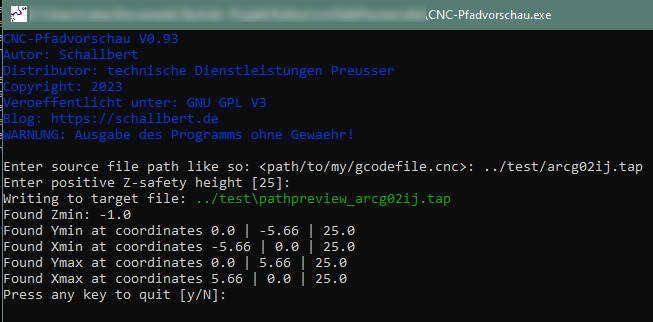
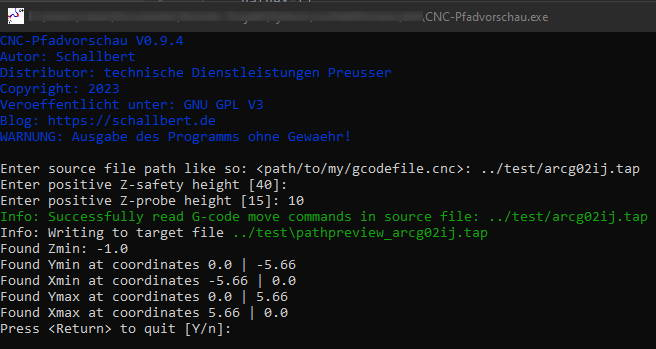
update console text color update readme for new version update example images for readme

diff --git a/cncpathpreview.py b/cncpathpreview.py
@@ -273,7 +273,7 @@ def generate_output_file(target_filename, data, zinfo):
     @:param zinfo: a list containing zsafety and zprobe height on which the extreme coordinate values are approached"""
     try:
         with open(target_filename, 'w') as f:
-            click.echo('Writing to target file: ' + click.style(target_filename, fg="green"), err=False)
+            click.echo('Info: Writing to target file ' + click.style(target_filename, fg="green"), err=False)
             f.write(get_file_header(target_filename))
             f.write(get_extreme_value('Zmin', data))  # Print Zmin
             f.write(get_zxyzmove(['0', '0'], zinfo))  # Go to X0Y0
@@ -282,11 +282,11 @@ def generate_output_file(target_filename, data, zinfo):
             extremes = get_extremes_text(targets, data)
             for i in range(0, len(targets)):
                 f.write(get_command_strings(targets[i], extremes[i], zinfo))
-
+            f.write(get_command_strings('X0 Y0 Z' + zinfo[0], ['0', '0'], [zinfo[0], zinfo[0]]))  # back to X0Y0
             f.write('M30')
             f.close()
     except FileExistsError:
-        click.echo('Error: Could not create file.', err=True)
+        click.secho('Error: Could not create file.', err=True, fg="red")
 
 def get_extremes_text(targets, data):
     """Extracts a list of extreme values from data using targets string for filtering.
@@ -351,7 +351,7 @@ def get_command_strings(axis, coordinate, zinfo):
     @:return a String object"""
     return ('MSG "PathPreview: Hit START to go to ' + axis + ': ' + str(coordinate) + '"\n'
             + 'M00\n'
-            + get_zxyzmove(coordinate, zinfo) + '\n')
+            + get_zxyzmove(coordinate, zinfo))
 
 def get_zxyzmove(coordinate, zinfo):
     """Simple helper to build a rapid move command
@@ -359,18 +359,18 @@ def get_zxyzmove(coordinate, zinfo):
     @:return a String object"""
     return ('G00 Z' + zinfo[0] + '\n' +
             'G00 X' + coordinate[0] + ' Y' + coordinate[1] + '\n'
-            'G01 Z' + zinfo[1] + ' F1200' +'\n')
+            'G01 Z' + zinfo[1] + ' F1200' +'\n\n')
 
 def convert_int_unsigned(value):
     """Helper method that evaluates a user input and provides a default value on error
     @:param value: An integer value
     @:return the validated number as positive integer"""
     if value <= 0:
-        click.echo('Error: ' + str(value) + ' might lead to machine crash. Defaulting to Z=25.', err=True)
+        click.secho('Warning: ' + str(value) + ' might lead to machine crash. Defaulting to Z=40.', err=True, fg="yellow")
         value = 40
     return str(value)
 
-@click.command("Test")
+@click.command()
 @click.option("-f", "--file", prompt="Enter source file path like so: <path/to/my/gcodefile.cnc>",
               help="The file to analyze for CNC job area edge detection",
               default=None, show_default=True, type=click.File(mode="r"), required=True )
@@ -389,13 +389,13 @@ def path_preview(file, zsafety, zprobe):
 
     data = create_dataset_from_input(file)
     if not data:
-        click.echo('Error: Could not find G-code move commands in source file.', err=True)
+        click.secho('Error: Could not find G-code move commands in source file.', err=True, fg="red")
     else:
-        click.secho('Found G-code move commands in source file: ' + file.name, err=True, fg="green")
+        click.secho('Info: Successfully read G-code move commands in source file: ' + file.name, fg="green")
         generate_output_file(path.join(target_path, target_filename), data,
                              [convert_int_unsigned(zsafety), convert_int_unsigned(zprobe)])
 
-    click.confirm("Press <Return> to quit")
+    click.confirm("Press <Return> to quit", default=True)
 
 # add pyinstaller hook for deployment
 if getattr(sys, 'frozen', False):

diff --git a/readme.md b/readme.md
@@ -22,11 +22,15 @@ CNCpathPreview has no mandatory argument.
 ## Parameters
 CNCpathPreview's parameters:
 1. `--file` or `-f`: The source file to be analyzed. This parameter is required.
-2. `--zsafety` or `-z` The safety height you want the machine to run to the XY extreme points.
-This parameter is optional. It defaults to `25mm` if no or an erroneous value is given.
+2. `--zsafety` or `-s` The safety height you want the machine to run to the XY extreme points.
+3. `--zprobe` or `-p` The probe height the machine will go to at the extreme points to simplify manual adjustments
+of workpiece position.
+This Z parameters are optional. 
+
+The two optional parameters default to `zsafety=40mm` and `zprobe=15mm` if no or an erroneous value is given.
 
 ## Dialog
-The Beta version 0.93 requires a `MSG` command to inform the user about the next 
+The Beta version 0.9.4 requires a `MSG` command to inform the user about the next 
 extreme value to pinpoint. Thus, the CNC interpreter needs to understand that command.
 I'm also using a pause command `M00` to have the user press the **Start** button for each pinpoint.
 
@@ -46,27 +50,47 @@ You can run the script from command line like this:
 Alternatively, you can deploy an executable and enter the parameters later:
 ![Image: running cncPathPreview directly as an Application](/assets/example_executeasapp.jpg)
 
-This is how the output file for a circle of `r=5.66`, `Pcenter(0|0)` will look like:
+This is how the output file for a circle of `r=5.66`, `Pcenter(0|0)` will look like.
+The machine will start at XY0 and probe down to a given height. It will then pause using command `M00`.
+As soon as the user hits 'start', the machine will probe the job's extreme points starting with Y-.
+When complete, the machine will return to XY0 at safety height.
 ```ruby
 G90
 
 MSG "Zmin of this job: -1.0"
-G00 X0 Y0 Z10.0
-MSG "PathPreview: Hit START to go to Ymin: ['0.0', '-5.66', '10.0']"
-M00
-G00 X0.0 Y-5.66 Z10.0
+G00 Z40
+G00 X0 Y0
+G01 Z15 F1200
 
-MSG "PathPreview: Hit START to go to Xmin: ['-5.66', '0.0', '10.0']"
+MSG "PathPreview: Hit START to go to Ymin: ['0.0', '-5.66']"
 M00
-G00 X-5.66 Y0.0 Z10.0
+G00 Z40
+G00 X0.0 Y-5.66
+G01 Z15 F1200
 
-MSG "PathPreview: Hit START to go to Ymax: ['0.0', '5.66', '10.0']"
+MSG "PathPreview: Hit START to go to Xmin: ['-5.66', '0.0']"
 M00
-G00 X0.0 Y5.66 Z10.0
+G00 Z40
+G00 X-5.66 Y0.0
+G01 Z15 F1200
 
-MSG "PathPreview: Hit START to go to Xmax: ['5.66', '0.0', '10.0']"
+MSG "PathPreview: Hit START to go to Ymax: ['0.0', '5.66']"
 M00
-G00 X5.66 Y0.0 Z10.0
+G00 Z40
+G00 X0.0 Y5.66
+G01 Z15 F1200
+
+MSG "PathPreview: Hit START to go to Xmax: ['5.66', '0.0']"
+M00
+G00 Z40
+G00 X5.66 Y0.0
+G01 Z15 F1200
+
+MSG "PathPreview: Hit START to go to X0 Y0 Z40: ['0', '0']"
+M00
+G00 Z40
+G00 X0 Y0
+G01 Z40 F1200
 
 M30
 ```
